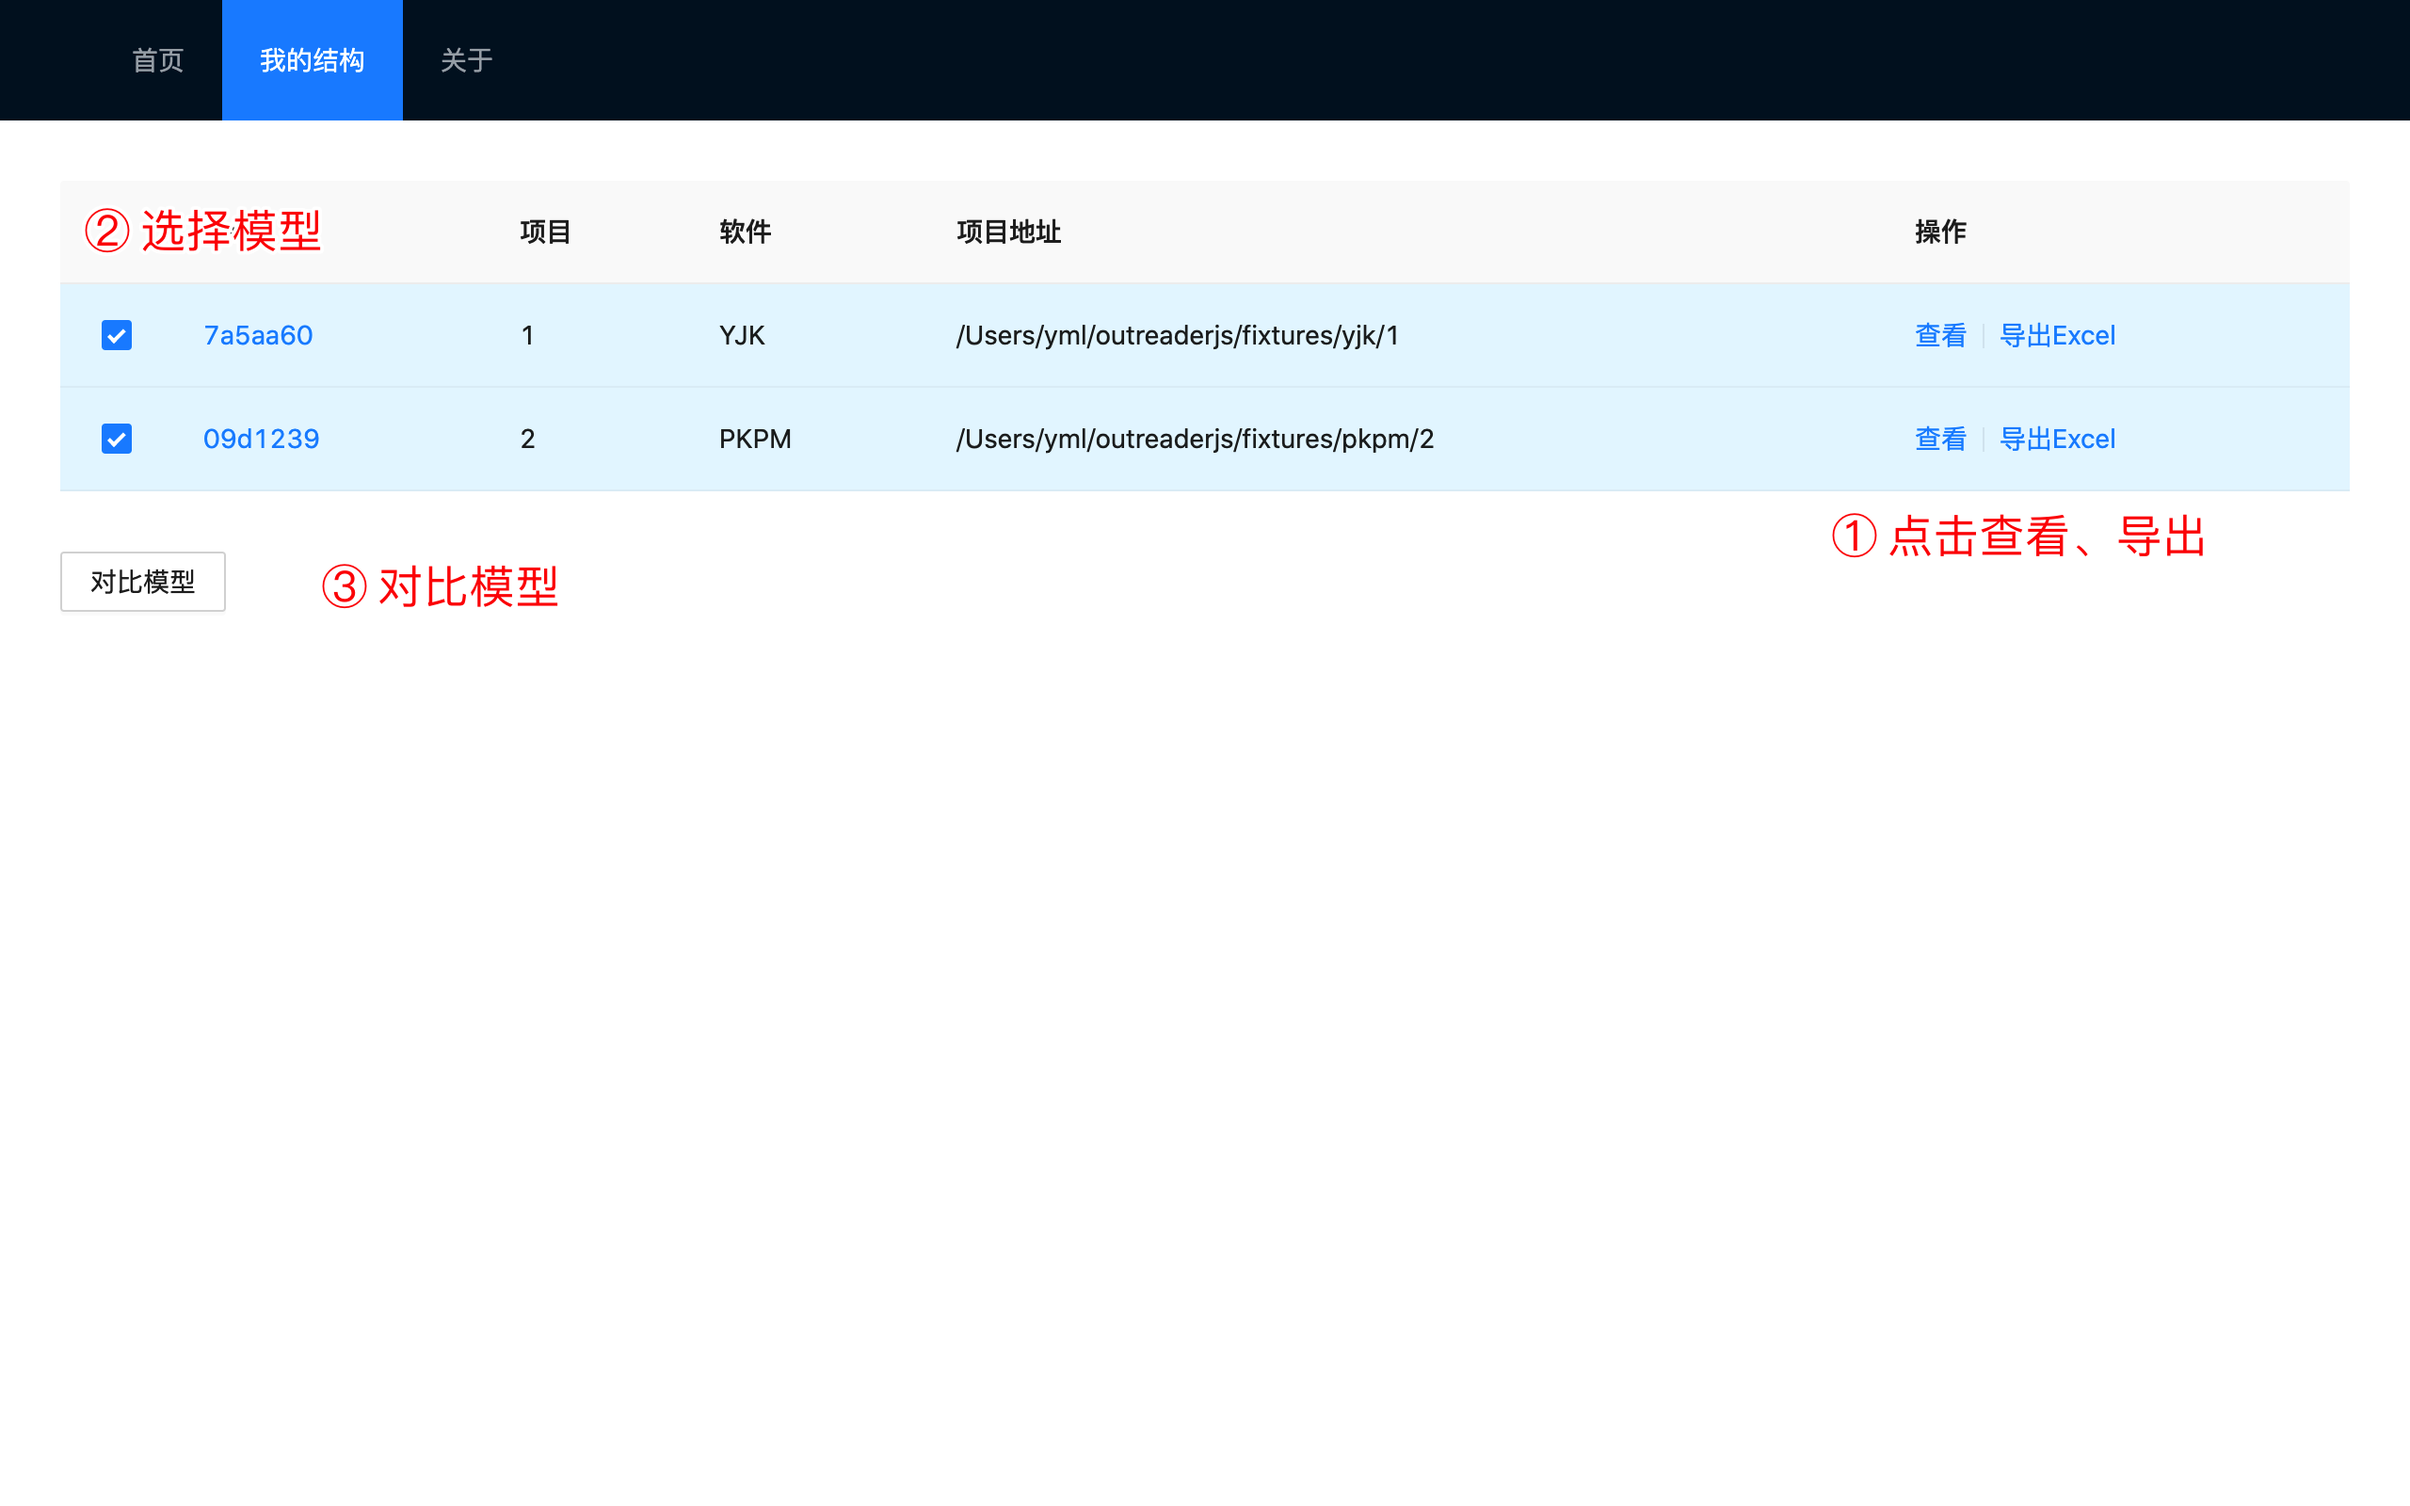
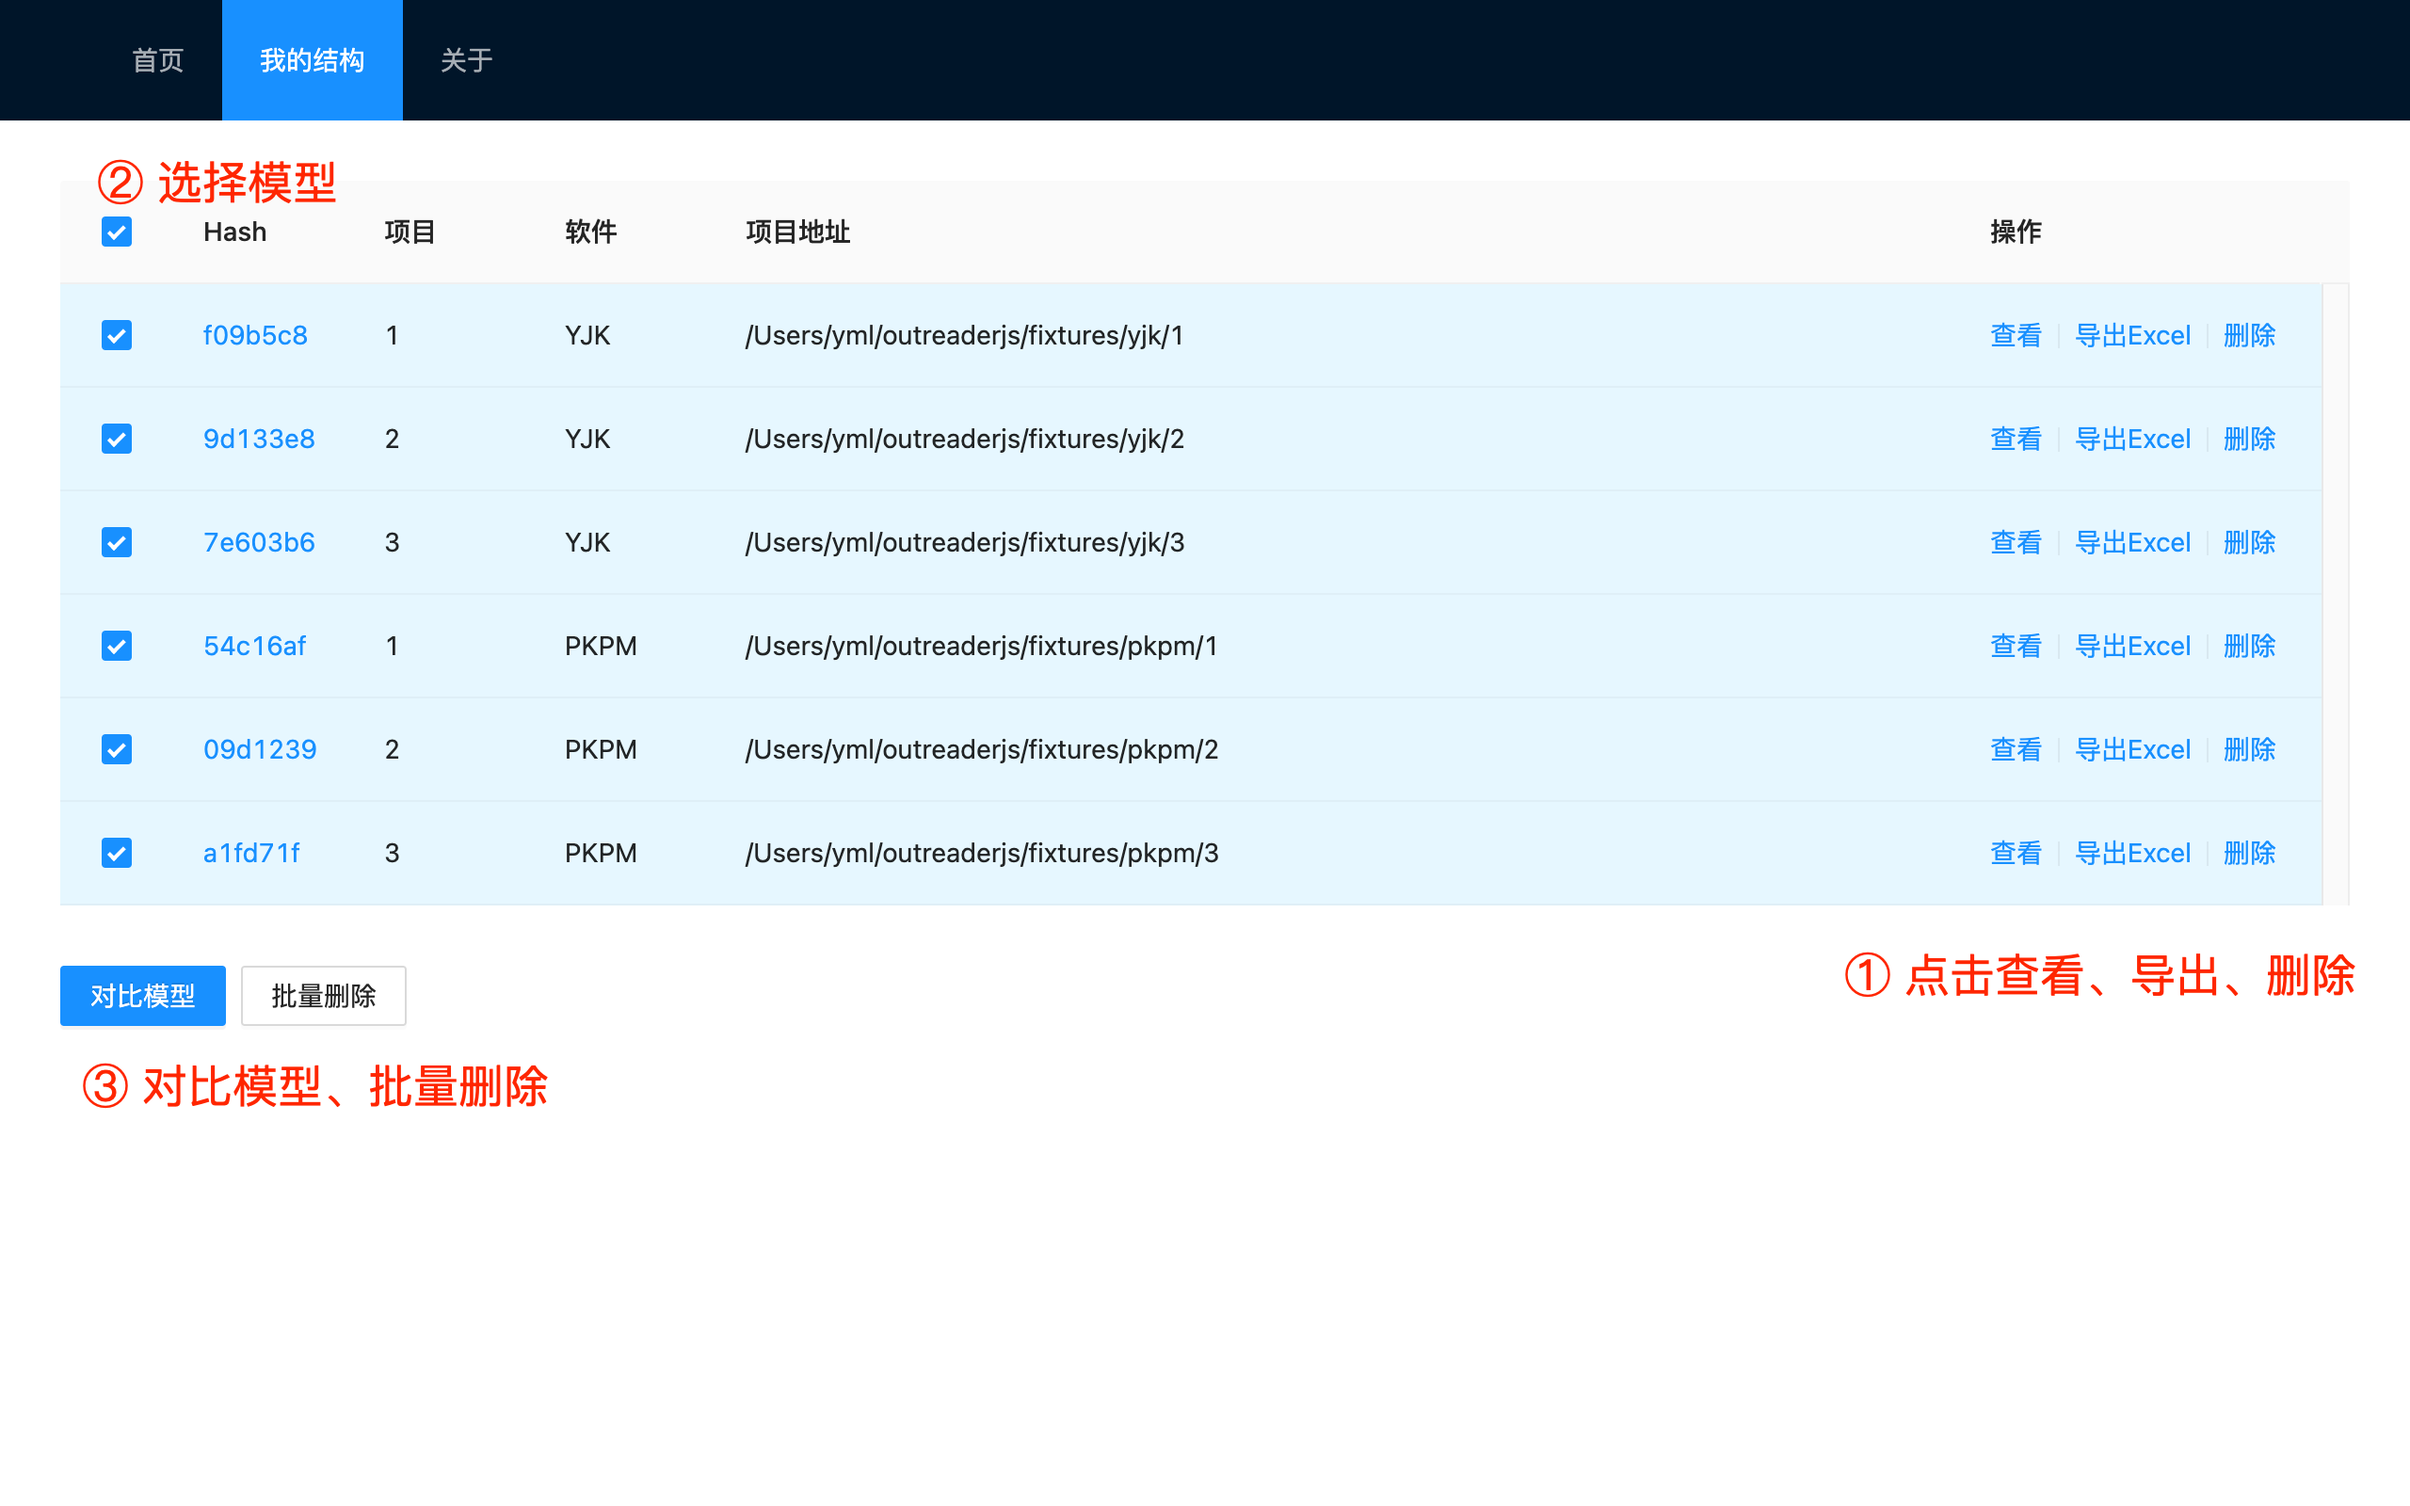
Feat delete structure (#209)
* save.

* chore(deps): upgrade deps

* feat(client): change right click menu.

* fix(core): revise xlsx default name when export.

* feat(client): add scroll in structures list.

* feat(client): add delete structure feature in structures list page.

* docs: update introduction.

diff --git a/packages/outreader-client/app/containers/structure-list-page/structure-list-page.tsx b/packages/outreader-client/app/containers/structure-list-page/structure-list-page.tsx
@@ -1,8 +1,8 @@
 import { exportExcel, convertStructure } from '@outreader/core';
-import { Button, Divider, message, Table } from 'antd';
+import { Button, Divider, message, Table, Popconfirm, Space } from 'antd';
 import React, { useState } from 'react';
 import { useHistory } from 'react-router';
-import { initDb } from '../../database';
+import { initDb, deleteDb } from '../../database';
 import { useDb } from '../../hooks';
 import { IStyles } from '../../interfaces';
 
@@ -20,7 +20,9 @@ export function StructureListPage() {
   const db = useDb();
   const history = useHistory();
   const [selectedHashes, setSelectedHashes] = useState<string[]>([]);
-  const structures = db.get('structures').value();
+  const [structures, setStructures] = useState<object[]>(
+    db.get('structures').value()
+  );
   const redirectToStructure = (hash: string) => {
     history.push(`/structures/${hash}`);
   };
@@ -44,11 +46,27 @@ export function StructureListPage() {
       }
     }
   };
+  const deleteStructure = (hash: string) => {
+    db.get('structures').remove({ hash: hash }).write();
+    setStructures(structures.filter((item: any) => item.hash !== hash));
+    deleteDb(hash);
+  };
+  const deleteStructures = (hashes: string[]) => {
+    hashes.forEach((hash) => {
+      db.get('structures').remove({ hash: hash }).write();
+      deleteDb(hash);
+    });
+    setStructures(
+      structures.filter((item: any) => !hashes.includes(item.hash))
+    );
+    setSelectedHashes([]);
+  };
   const tableColumns = [
     {
       title: 'Hash',
       dataIndex: 'hash',
       key: 'hash',
+      width: '6rem',
       render: (hash: string) => (
         <a onClick={() => redirectToStructure(hash)}>
           {hash && hash.slice(0, 7)}
@@ -59,26 +77,39 @@ export function StructureListPage() {
       title: '项目',
       dataIndex: 'name',
       key: 'name',
+      width: '6rem',
     },
     {
       title: '软件',
       dataIndex: 'software',
       key: 'dsoftwareir',
+      width: '6rem',
     },
     {
       title: '项目地址',
       dataIndex: 'dir',
       key: 'dir',
+      // width: '20rem',
     },
     {
       title: '操作',
       dataIndex: 'actions',
       key: 'actions',
+      width: '12rem',
       render: (_, record: any) => (
         <span>
           <a onClick={() => redirectToStructure(record.hash)}>查看</a>
           <Divider type="vertical" />
           <a onClick={() => exportXLSX(record.hash)}>导出Excel</a>
+          <Divider type="vertical" />
+          <Popconfirm
+            title="确认删除?"
+            okText="确认"
+            cancelText="取消"
+            onConfirm={() => deleteStructure(record.hash)}
+          >
+            <a>删除</a>
+          </Popconfirm>
         </span>
       ),
     },
@@ -91,10 +122,9 @@ export function StructureListPage() {
         'selectedRows: ',
         selectedRows
       );
-      // TODO: prevent all selected keys <= 3?
       setSelectedHashes(selectedRowKeys as string[]);
     },
-    hideSelectAll: true,
+    // hideSelectAll: true,
   };
 
   return (
@@ -105,10 +135,25 @@ export function StructureListPage() {
         rowKey="hash"
         dataSource={structures}
         pagination={false}
+        scroll={{ x: true, y: 'calc(100vh - 16rem)' }}
       />
       <div style={styles.toolbar}>
         {selectedHashes.length > 1 && (
-          <Button onClick={redirectToStructureCompare}>对比模型</Button>
+          <Space>
+            <Button type="primary" onClick={redirectToStructureCompare}>
+              对比模型
+            </Button>
+            <Popconfirm
+              title="确认删除?"
+              okText="确认"
+              cancelText="取消"
+              onConfirm={() => {
+                deleteStructures(selectedHashes);
+              }}
+            >
+              <Button>批量删除</Button>
+            </Popconfirm>
+          </Space>
         )}
       </div>
     </div>

diff --git a/packages/outreader-client/app/database/db.ts b/packages/outreader-client/app/database/db.ts
@@ -2,6 +2,8 @@ import electron from 'electron';
 import path from 'path';
 import lowdb from 'lowdb';
 import FileSync from 'lowdb/adapters/FileSync';
+import fs from 'fs';
+import { message } from 'antd';
 
 export function initDb(db: string = 'outreader') {
   return lowdb(
@@ -12,4 +14,17 @@ export function initDb(db: string = 'outreader') {
       )
     )
   );
+}
+
+export function deleteDb(db: string) {
+  const filePath = path.join(
+    (electron.app || electron.remote.app).getPath('userData'),
+    db + '.json'
+  );
+  fs.unlink(filePath, (error) => {
+    if (error) {
+      message.error('数据删除失败');
+      console.log(error);
+    }
+  });
 }

diff --git a/packages/outreader-core/src/excel/excel.ts b/packages/outreader-core/src/excel/excel.ts
@@ -153,7 +153,7 @@ export async function exportExcel(structure: IStructureFrontEnd, dir?: string) {
     blob,
     `OutReader_${date.getFullYear()}${
       date.getMonth() + 1 < 10 ? `0${date.getMonth() + 1}` : date.getMonth() + 1
-    }${date.getDate()}.xlsx`,
+    }${date.getDate() < 10 ? `0${date.getDate()}` : date.getDate()}.xlsx`,
   );
 
   return true;

diff --git a/packages/outreader-core/src/compare-excel/compare-excel.ts b/packages/outreader-core/src/compare-excel/compare-excel.ts
@@ -126,7 +126,7 @@ export async function exportCompareExcel(
     blob,
     `Compare_${date.getFullYear()}${
       date.getMonth() + 1 < 10 ? `0${date.getMonth() + 1}` : date.getMonth() + 1
-    }${date.getDate()}.xlsx`,
+    }${date.getDate() < 10 ? `0${date.getDate()}` : date.getDate()}.xlsx`,
   );
 
   return true;

diff --git a/docs/guide/update.md b/docs/guide/update.md
@@ -9,13 +9,19 @@ next: false
 
 ## 当前版本
 
+### [v0.0.8 （2020.12.04）](../download/)
+
+**更新内容**
+
+1.增加模型读取结果删除功能。
+
+## 历史版本
+
 ### [v0.0.7 （2020.11.19）](../download/)
 
 **更新内容**
 
 1.增加多塔计算结果读取、对比、显示、导出，支持 YJK 和 PKPM。
-
-## 历史版本
 
 ### [v0.0.6 （2020.11.13）](../download/)
 

diff --git a/docs/guide/structure.md b/docs/guide/structure.md
@@ -39,6 +39,10 @@ next: ./compare
 
 ![image](/structure/structure-force.png)
 
+当模型为多塔时，可以按塔号和层号排序显示数据。
+
+![image](/structure/multi-towers.png)
+
 ## 位移角
 
 `位移角`页面显示内容包括顺风向风荷载和地震作用下的楼层位移和层间位移角，偶然偏心地震作用规定水平力下的楼层位移比和层间位移比。
